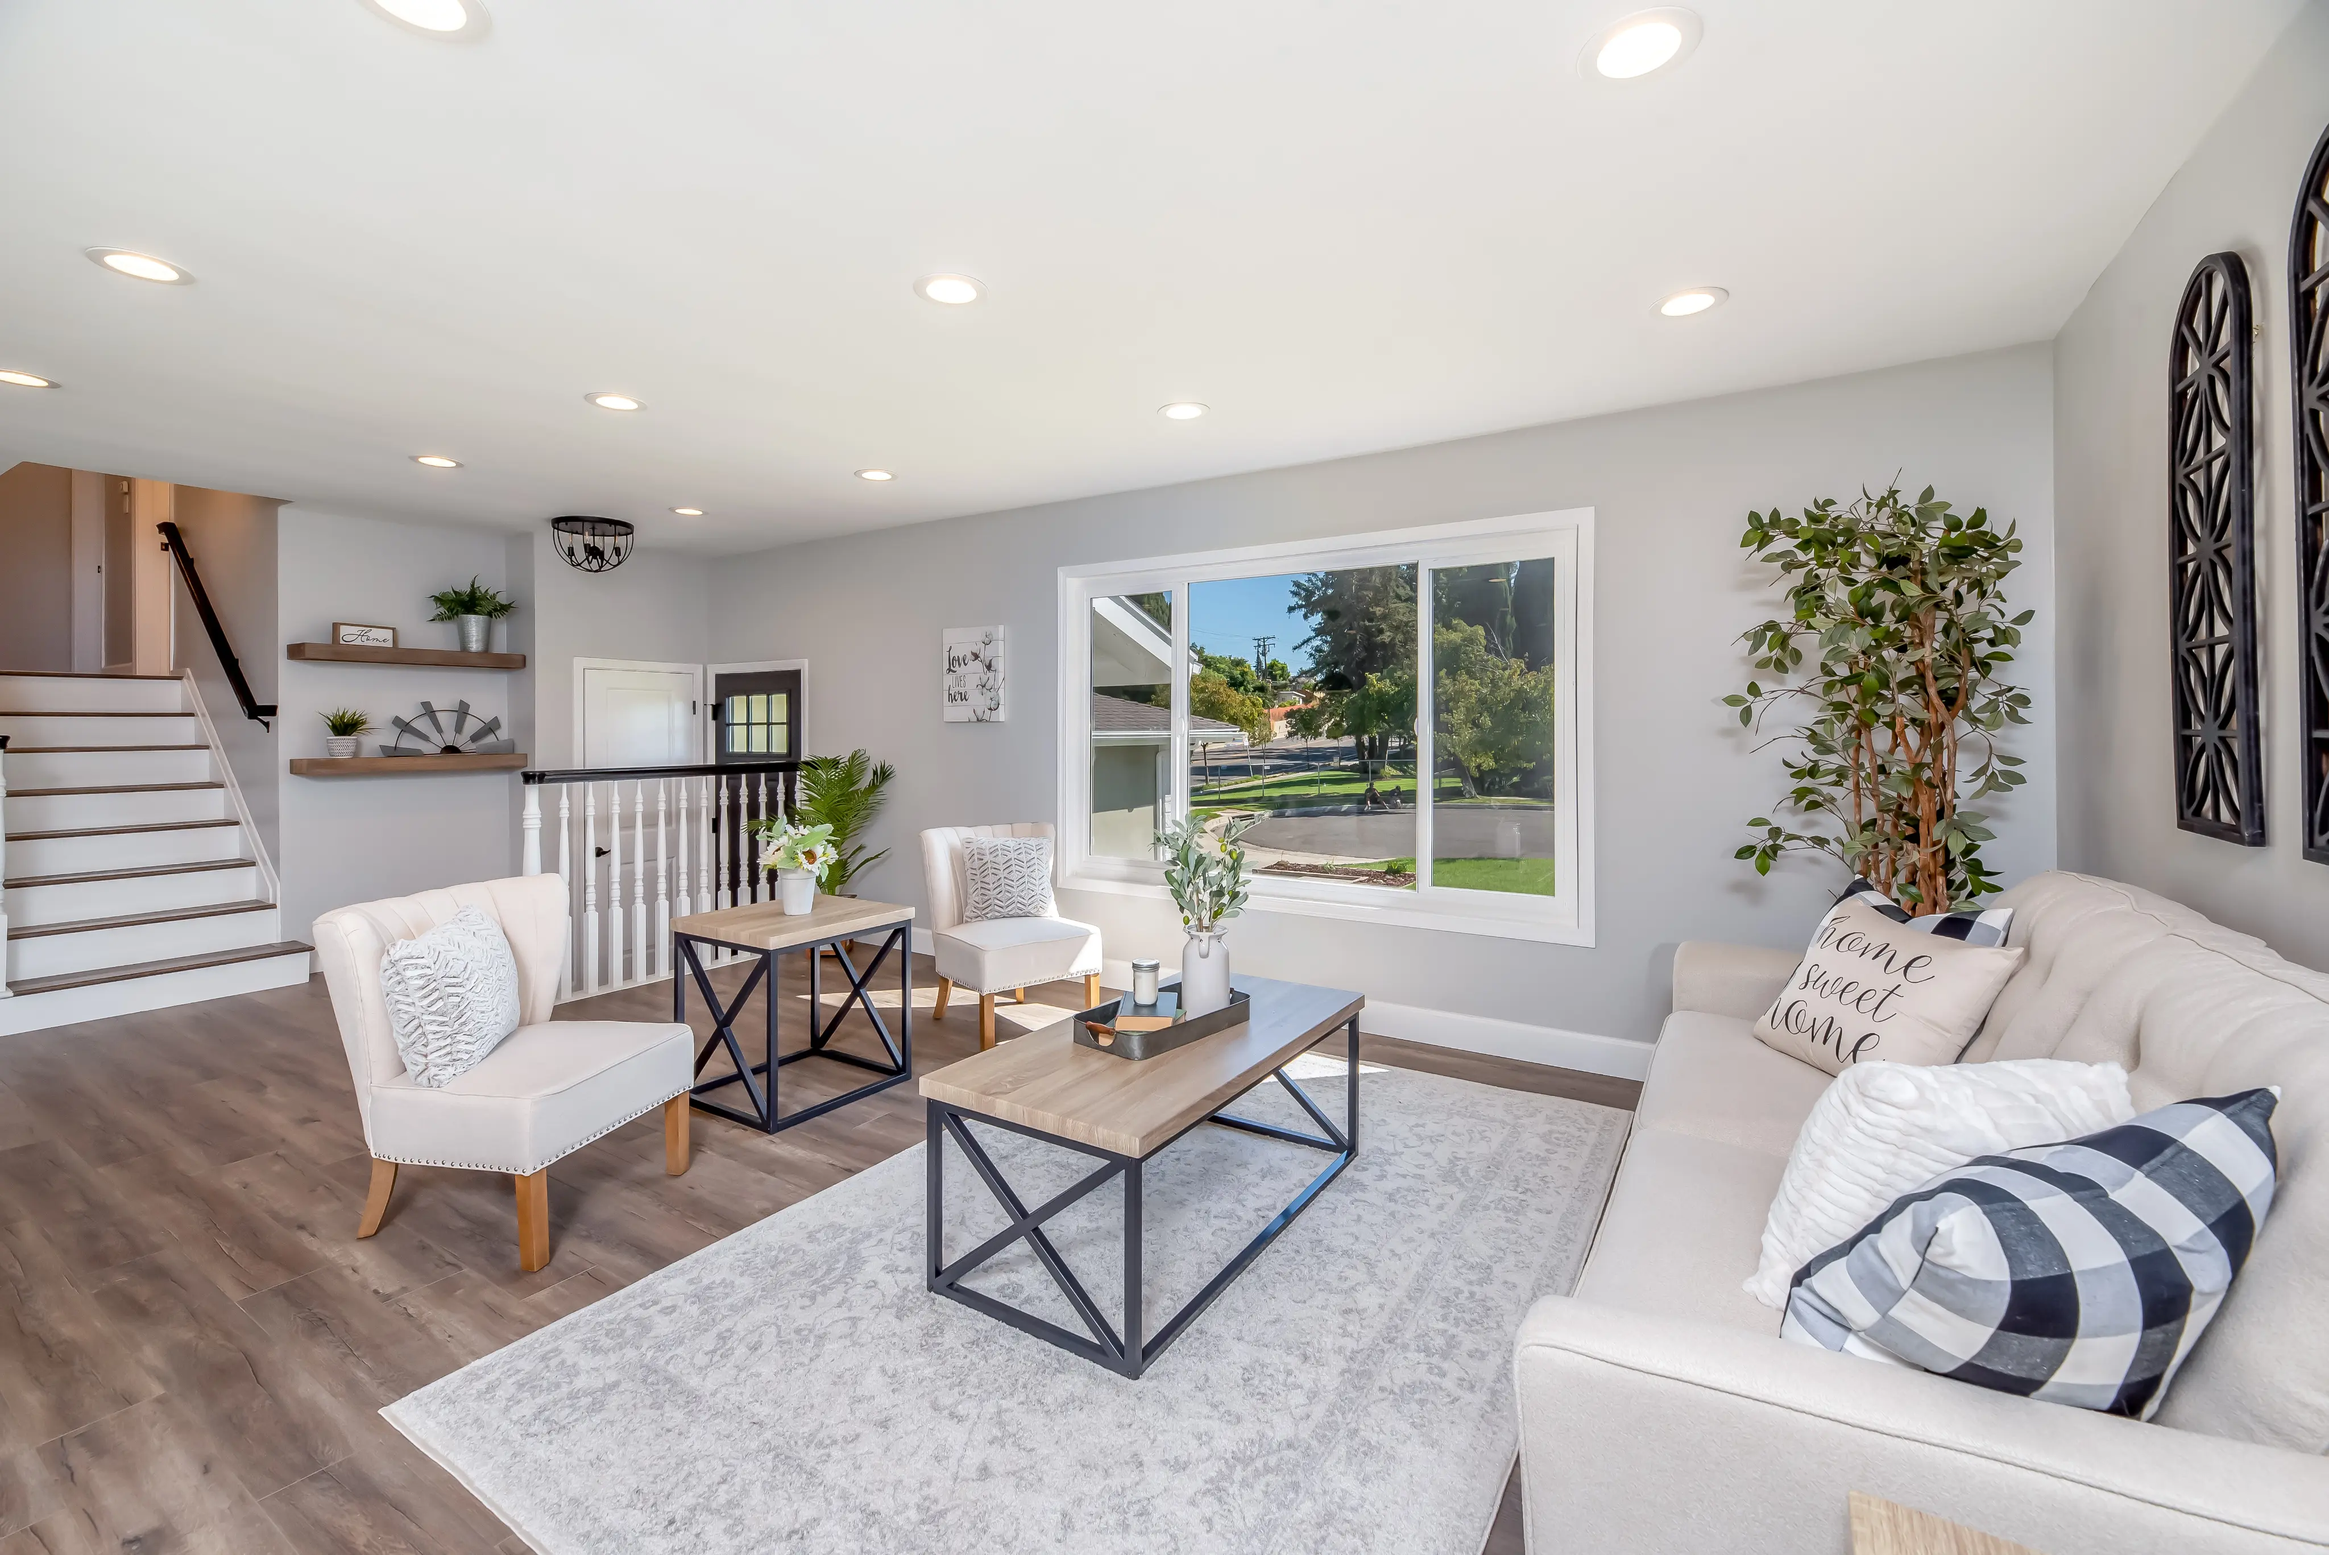
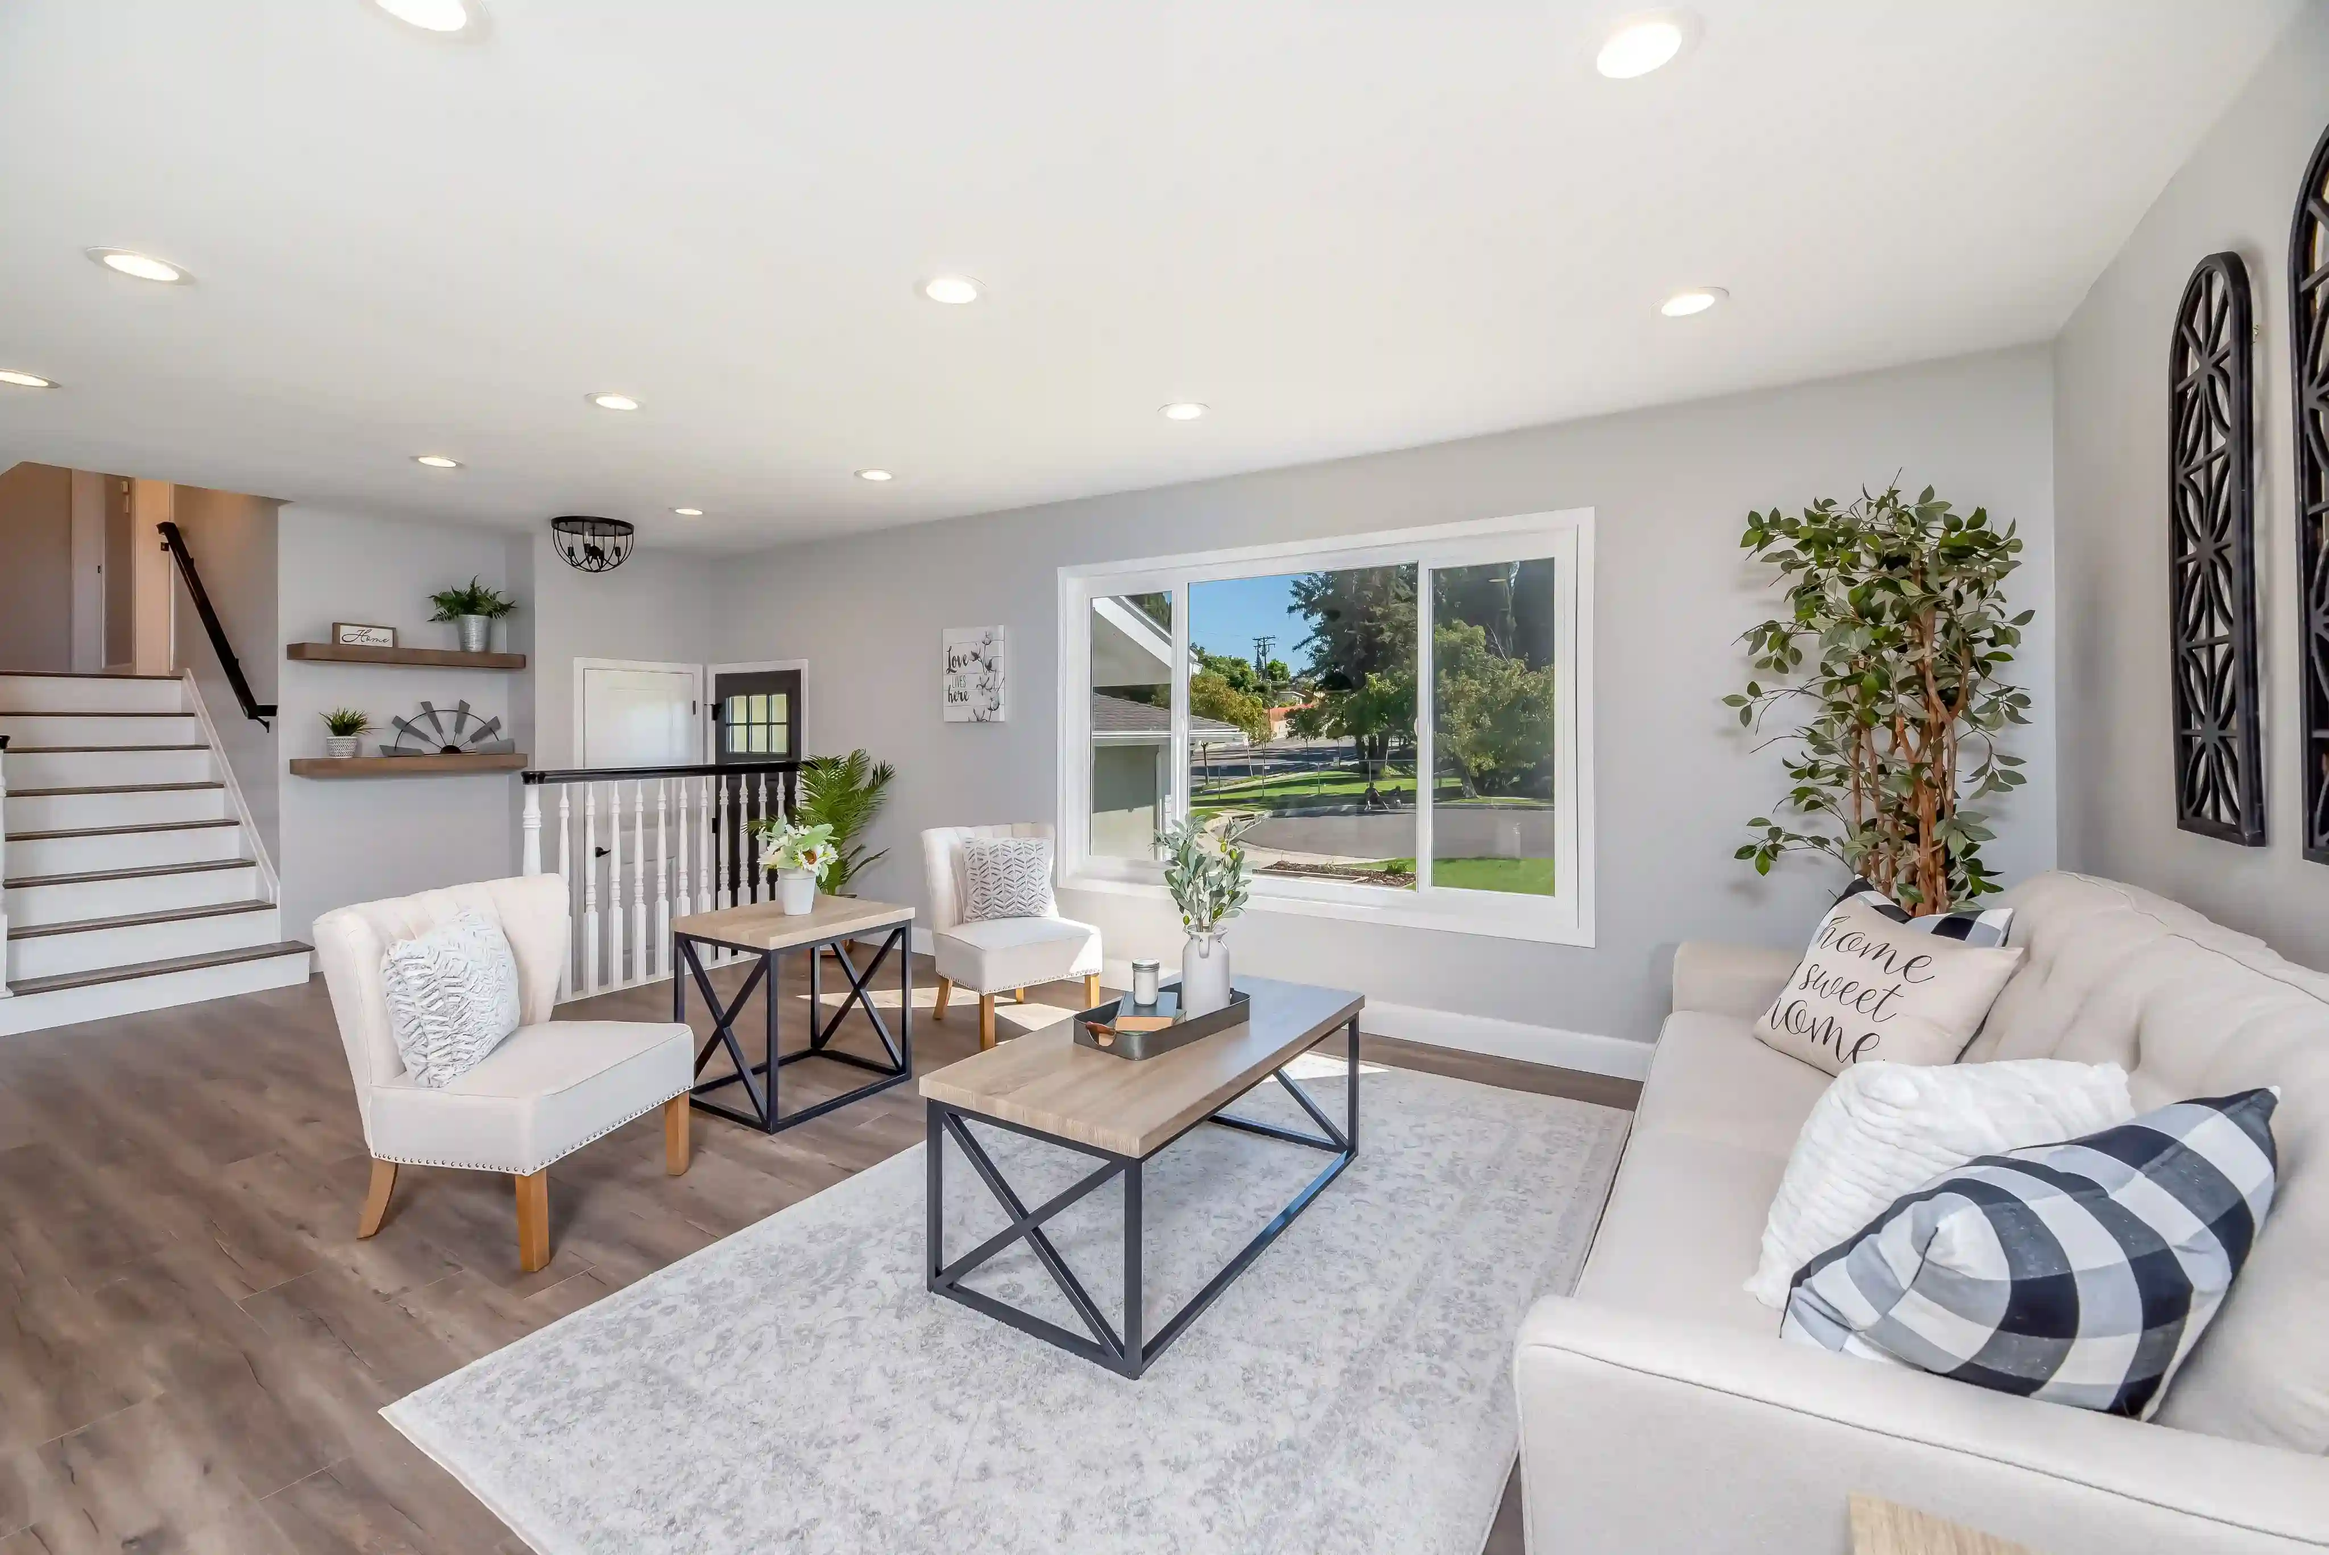
Projects Image Optimized and About us CSS Fixed

Changed region(s): [[0.5, 0.4042, 0.5625, 0.4974], [0.5, 0.5285, 0.5312, 0.5907], [0.3438, 0.4974, 0.375, 0.5596]]

diff --git a/src/app/services/language.service.ts b/src/app/services/language.service.ts
@@ -17,17 +17,30 @@ export class LanguageService {
     private translate: TranslateService,
     @Inject(PLATFORM_ID) private platformId: Object
   ) {
-    this.initializeLanguage();
-  }
+    // Set default language
+    this.translate.setDefaultLang(this.DEFAULT_LANGUAGE);
 
-  private initializeLanguage(): void {
-    const savedLanguage = this.getStoredLanguage() || this.DEFAULT_LANGUAGE;
-    this.setLanguage(savedLanguage);
+    // Initialize with stored language or default
+    const savedLanguage = this.getStoredLanguage();
+    if (savedLanguage) {
+      // First load the translations
+      this.translate.getTranslation(savedLanguage).subscribe(() => {
+        // Then set the language
+        this.translate.use(savedLanguage).subscribe(() => {
+          console.log('Language initialized with:', savedLanguage);
+          this.setLanguage(savedLanguage);
+        });
+      });
+    } else {
+      this.setLanguage(this.DEFAULT_LANGUAGE);
+    }
   }
 
   private getStoredLanguage(): string | null {
     if (isPlatformBrowser(this.platformId)) {
-      return localStorage.getItem(this.LANGUAGE_KEY);
+      const lang = localStorage.getItem(this.LANGUAGE_KEY);
+      console.log('Stored language:', lang);
+      return lang;
     }
     return null;
   }
@@ -35,23 +48,33 @@ export class LanguageService {
   private setStoredLanguage(lang: string): void {
     if (isPlatformBrowser(this.platformId)) {
       localStorage.setItem(this.LANGUAGE_KEY, lang);
+      console.log('Language stored:', lang);
     }
   }
 
   setLanguage(lang: string): void {
-    this.translate.use(lang);
-    this.setStoredLanguage(lang);
+    console.log('Setting language to:', lang);
+    // First load the translations
+    this.translate.getTranslation(lang).subscribe(() => {
+      // Then set the language
+      this.translate.use(lang).subscribe(() => {
+        console.log('Language changed to:', lang);
+        this.setStoredLanguage(lang);
 
-    // Set RTL based on language
-    const isRTL = lang === 'ar';
-    this.isRTL.next(isRTL);
-    if (isPlatformBrowser(this.platformId)) {
-      document.documentElement.dir = isRTL ? 'rtl' : 'ltr';
-      document.documentElement.lang = lang;
-    }
+        // Set RTL based on language
+        const isRTL = lang === 'ar';
+        this.isRTL.next(isRTL);
+        if (isPlatformBrowser(this.platformId)) {
+          document.documentElement.dir = isRTL ? 'rtl' : 'ltr';
+          document.documentElement.lang = lang;
+        }
+      });
+    });
   }
 
   getCurrentLanguage(): string {
-    return this.translate.currentLang;
+    const currentLang = this.translate.currentLang || this.DEFAULT_LANGUAGE;
+    console.log('Current language:', currentLang);
+    return currentLang;
   }
 }

diff --git a/src/app/app.config.ts b/src/app/app.config.ts
@@ -21,7 +21,7 @@ import { HttpClient } from '@angular/common/http';
 
 const httpLoaderFactory: (http: HttpClient) => TranslateHttpLoader = (
   http: HttpClient
-) => new TranslateHttpLoader(http, './i18n/', '.json');
+) => new TranslateHttpLoader(http, '/i18n/', '.json');
 
 export const appConfig: ApplicationConfig = {
   providers: [
@@ -43,6 +43,7 @@ export const appConfig: ApplicationConfig = {
           useFactory: httpLoaderFactory,
           deps: [HttpClient],
         },
+        defaultLanguage: 'en',
       }),
     ]),
   ],

diff --git a/src/app/features/homepage/projects/projects.component.html b/src/app/features/homepage/projects/projects.component.html
@@ -30,7 +30,7 @@
       <div class="carousel-cell-inner relative w-full">
         <div class="relative">
           <img
-            src="assets/projects-image.jpg"
+            src="assets/webps/projects-image.webp"
             alt="Project Image"
             class="w-full h-[500px] object-cover rounded-[5px]"
           />
